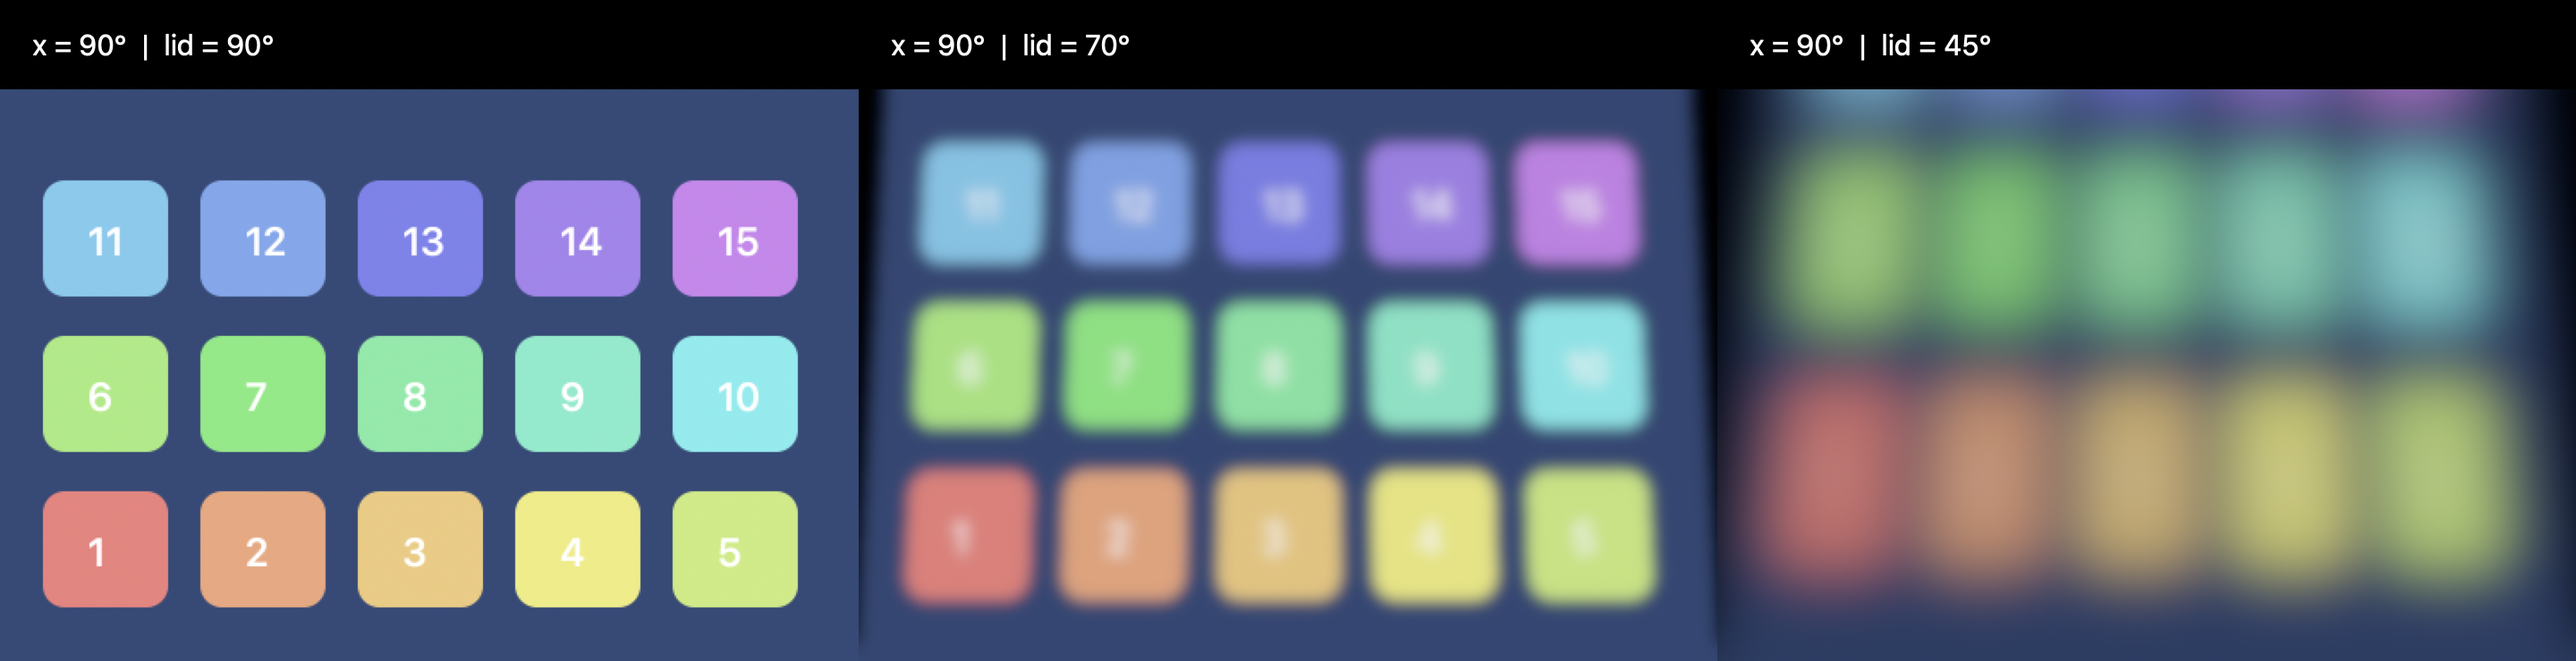
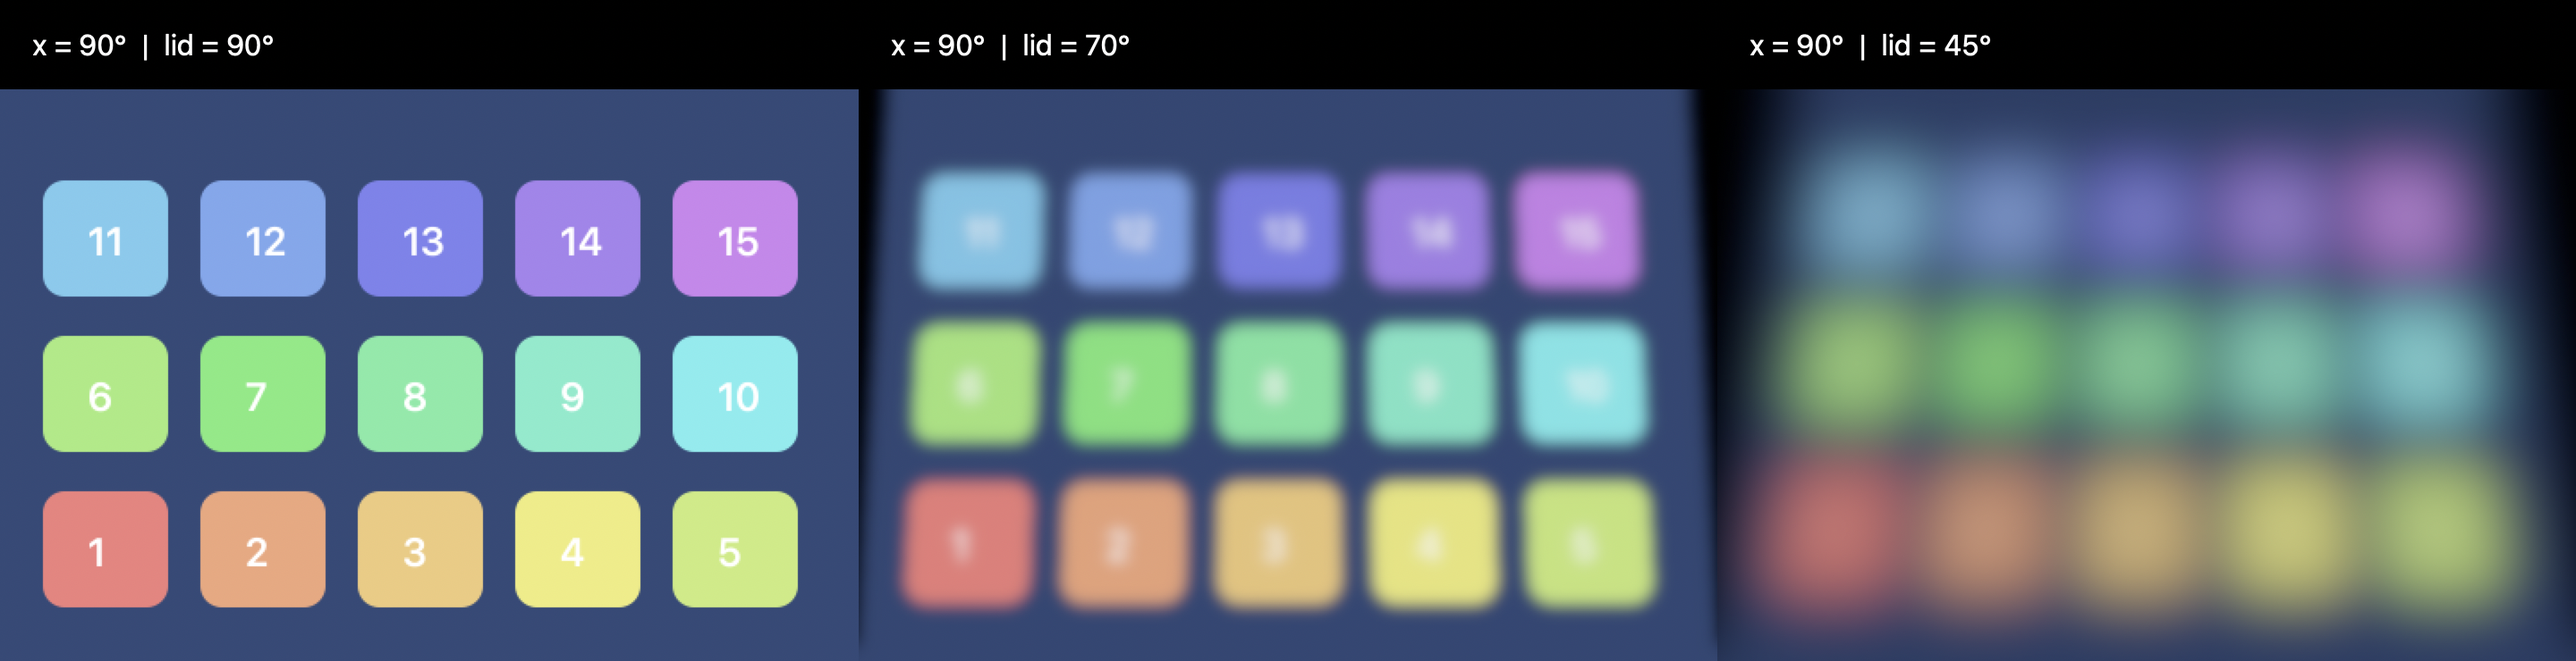
Keep the taper on the screen: drop the vertical stretch
The projection's 1 / cos(x − y) stretch pushed the top of the image past the
lid's edge, so part of it was always cut off as the lid closed. Leave that
component out and keep only the top taper of tan(x − y) / eyeDistance, so the
image fills the lid and narrows at the top without ever leaving the screen.

Changed region(s): [[0.3438, 0.1243, 1.0, 0.7459], [0.3438, 0.8392, 1.0, 0.9635]]

diff --git a/Tests/main.swift b/Tests/main.swift
@@ -26,7 +26,7 @@ check(LidReport.angle([2, 90, 0]) == nil, "wrong report ID rejected")
 let clearGeometry = EffectModel.geometry(angle: 90, threshold: 90)
 check(clearGeometry.topHeight == 1 && clearGeometry.topWidth == 1 && clearGeometry.darkness == 0, "reference plane is identity")
 let foldedGeometry = EffectModel.geometry(angle: 45, threshold: 90)
-check(foldedGeometry.topHeight > 1 && foldedGeometry.topWidth < 1, "closing stretches past the top edge and narrows the top")
+check(foldedGeometry.topHeight == 1 && foldedGeometry.topWidth < 1, "closing tapers the top and stays on the screen")
 check(foldedGeometry.darkness > 0 && foldedGeometry.darkness < 1, "closing dims image")
 check(EffectModel.geometry(angle: nil, threshold: 90) == .identity, "missing angle resets projection")
 for x in stride(from: 10.0, through: 140, by: 1) {
@@ -44,35 +44,29 @@ let full = EffectModel.geometry(angle: 45, threshold: 90, strength: 1)
 let flat = EffectModel.geometry(angle: 45, threshold: 90, strength: 0)
 let half = EffectModel.geometry(angle: 45, threshold: 90, strength: 0.5)
 check(flat.topHeight == 1 && flat.topWidth == 1 && flat.darkness == full.darkness, "zero strength is flat but still dims")
-check(half.topWidth > full.topWidth && half.topWidth < 1 && half.topHeight > 1 && half.topHeight < full.topHeight, "half strength sits between")
+check(half.topWidth > full.topWidth && half.topWidth < 1 && half.topHeight == 1, "half strength sits between")
 check(EffectModel.geometry(angle: 45, threshold: 90, strength: 7) == full, "strength clamps to 1")
 // The eye turns with the lid, so only the angle between the planes matters.
 let sameDelta = EffectModel.geometry(angle: 90, threshold: 120)
 check(sameDelta.topHeight == EffectModel.geometry(angle: 60, threshold: 90).topHeight, "geometry depends on the difference angle only")
-// Stretch grows and the top narrows strictly monotonically as the lid closes; both are
-// bounded. This is what rules out the reversal near the threshold that an eye below the
-// reference screen's top edge produces (the top dips inward before it stretches).
-var previousHeight = 1.0, previousWidth = 1.0
+// The top narrows strictly monotonically as the lid closes and the image never leaves the
+// screen: the top edge stays at the lid's top edge.
+var previousWidth = 1.0
 for a in stride(from: 89, through: 0, by: -1) {
     let g = EffectModel.geometry(angle: Double(a), threshold: 90)
-    check(g.topHeight >= previousHeight && g.topHeight <= 3 && g.topWidth <= previousWidth && g.topWidth >= 0.08,
-          "geometry is monotonic and bounded at \(a)")
-    if a > 20 { check(g.topHeight > previousHeight && g.topWidth < previousWidth, "geometry is strictly monotonic at \(a)") }
-    previousHeight = g.topHeight; previousWidth = g.topWidth
+    check(g.topHeight == 1 && g.topWidth <= previousWidth && g.topWidth >= 0.08, "taper is monotonic and on screen at \(a)")
+    if a > 20 { check(g.topWidth < previousWidth, "taper is strictly monotonic at \(a)") }
+    previousWidth = g.topWidth
 }
-// Closed form: the stretch is 1 / cos(x - y) regardless of the eye, the top is 1 - tan(x - y) / L wide.
+// Closed form: the top is 1 - tan(x - y) / L wide.
 let l = EffectModel.eyeDistance
-let fortyFive = EffectModel.geometry(angle: 45, threshold: 90)
-check(abs(fortyFive.topWidth - (1 - 1 / l)) < 1e-9 && abs(fortyFive.topHeight - 1 / cos(Double.pi / 4)) < 1e-9,
-      "45° apart matches the closed form")
-let thirty = EffectModel.geometry(angle: 60, threshold: 90)
-check(abs(thirty.topWidth - (1 - tan(Double.pi / 6) / l)) < 1e-9 && abs(thirty.topHeight - 1 / cos(Double.pi / 6)) < 1e-9,
-      "30° apart matches the closed form")
+check(abs(EffectModel.geometry(angle: 45, threshold: 90).topWidth - (1 - 1 / l)) < 1e-9, "45° apart matches the closed form")
+check(abs(EffectModel.geometry(angle: 60, threshold: 90).topWidth - (1 - tan(Double.pi / 6) / l)) < 1e-9, "30° apart matches the closed form")
 var motion = EffectMotion()
 let targetGeometry = EffectModel.geometry(angle: 45, threshold: 90)
 motion.advance(radius: 20, geometry: targetGeometry, deltaTime: 1.0 / 60)
 check(motion.radius > 0 && motion.radius < 20, "blur interpolates per frame")
-check(motion.geometry.topHeight < targetGeometry.topHeight && motion.geometry.topHeight > 1, "perspective interpolates rather than jumping")
+check(motion.geometry.topWidth > targetGeometry.topWidth && motion.geometry.topWidth < 1, "perspective interpolates rather than jumping")
 check(motion.geometry.darkness > 0 && motion.geometry.darkness < targetGeometry.darkness, "darkness interpolates")
 var at60 = EffectMotion(), at120 = EffectMotion()
 for _ in 0..<6 { at60.advance(radius: 20, geometry: targetGeometry, deltaTime: 1.0 / 60) }

diff --git a/Sources/EffectModel.swift b/Sources/EffectModel.swift
@@ -11,41 +11,27 @@ enum EffectModel {
     /// The viewer's eye is level with the top edge of the reference screen and
     /// this many screen heights in front of it, looking straight at it. Nearer
     /// means the lid's top, which leans toward the eye, looms larger and the
-    /// content's top must be drawn narrower to match; the vertical stretch does
-    /// not depend on it. Very far approaches a parallel projection.
+    /// content's top must be drawn narrower to match. Very far means no taper.
     static let eyeDistance = 5.0
-    /// Content stretched past this is a sliver at the bottom of the lid anyway.
-    private static let maximumStretch = 3.0
 
     /// The screen is treated as fixed at the reference angle x while the lid is
-    /// really at y. Each point of the content on plane x is projected along the
-    /// eye's ray onto the lid, so the eye sees it where it would be if the lid
-    /// had not moved. The lid leans toward the eye by x - y, so along the lid
-    /// the content stretches from the shared hinge by 1 / cos(x - y)
-    /// (`topHeight` > 1; the part past the lid's top edge is not shown) and its
-    /// top edge, which the eye sees closer and larger than the reference, is
-    /// drawn narrower by tan(x - y) / eyeDistance (`topWidth` < 1). Both change
-    /// monotonically as the lid closes; with the eye anywhere below the top edge
-    /// the top would first dip inward and then stretch, a visible reversal near
-    /// the threshold. `strength` scales how much of the geometry is applied: 0
-    /// leaves the image flat, 1 is the full projection.
+    /// really at y. The lid leans toward the eye by x - y, so its top edge is
+    /// seen closer and larger than the reference screen's, and the content's top
+    /// is drawn narrower by tan(x - y) / eyeDistance to compensate (`topWidth`).
+    /// The projection would also stretch the content past the lid's top edge;
+    /// that part is deliberately not applied, so the image always stays on the
+    /// screen and only tapers (`topHeight` stays 1). `strength` scales how much
+    /// of the taper is applied: 0 leaves the image flat, 1 is the full taper.
     static func geometry(angle: Double?, threshold: Double, strength: Double = 1) -> EffectGeometry {
         guard let angle, angle.isFinite, (0...360).contains(angle),
               threshold.isFinite, threshold > 0, angle < threshold else { return .identity }
         let amount = min(1, max(0, 1 - angle / threshold))
         let darkness = 0.65 * amount * amount * (3 - 2 * amount)
         let k = strength.isFinite ? min(1, max(0, strength)) : 1
-        // In the reference plane's frame: u along it from the hinge, n its normal
-        // toward the eye at (1, L). The content's top is (1, 0); the lid is the
-        // line through the origin at x - y toward the eye. The ray from the eye
-        // through the top meets it at parameter t = 1 - tan(x - y) / L, which is
-        // the lateral scale, at 1 / cos(x - y) along the lid.
         let delta = min(89.0, threshold - angle) * .pi / 180
-        let stretch = 1 / cos(delta)
-        let t = 1 - tan(delta) / eyeDistance
-        // Clamp after blending so the bounds hold exactly at every strength.
-        return EffectGeometry(topHeight: min(maximumStretch, 1 + k * (stretch - 1)),
-                              topWidth: max(0.08, 1 - k * (1 - t)), darkness: darkness)
+        let taper = 1 - tan(delta) / eyeDistance
+        // Clamp after blending so the bound holds exactly at every strength.
+        return EffectGeometry(topHeight: 1, topWidth: max(0.08, 1 - k * (1 - taper)), darkness: darkness)
     }
 
     static func radius(angle: Double?, threshold: Double, maximum: Double, enabled: Bool) -> Double {
